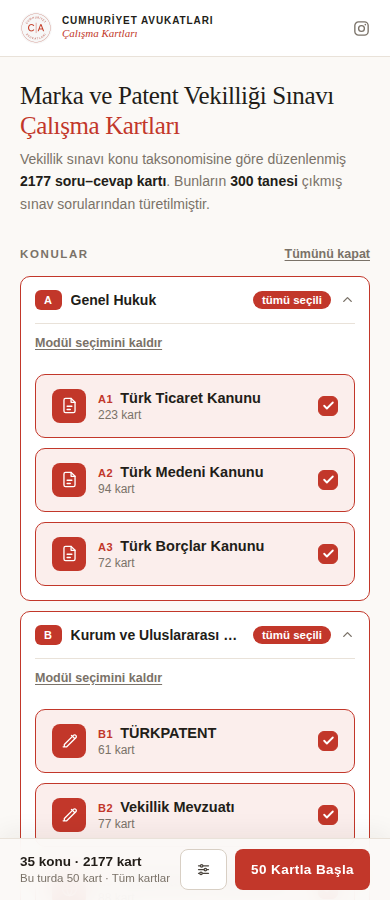
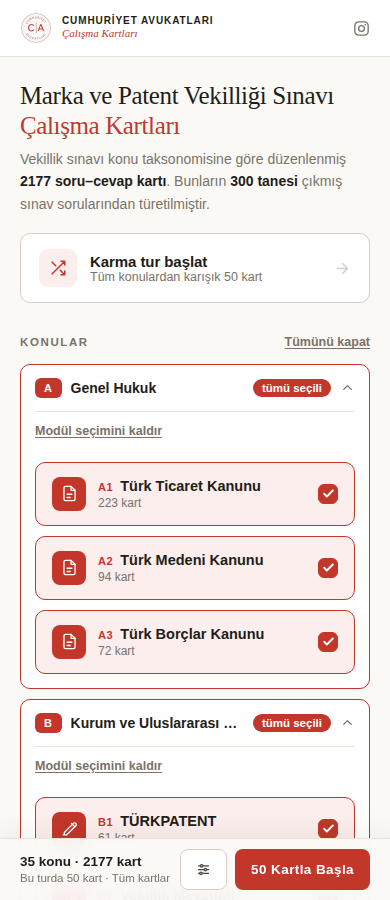
Sayfa başına tek düğmeli "Karma tur başlat" eklendi
Kaldırılan üç düğmeli hızlı başlangıç şeridinin yerine, başlığın hemen
altında tek bir düğme: kapsamı "tüm kartlar", sırayı "karışık" yapıp
bütün konuları seçer ve turu doğrudan başlatır.

Düğmenin alt satırı turda kaç kart çalışılacağını gösteriyor ve tur boyu
ayarı değiştikçe güncelleniyor (50 / 100 / sınırsız → 2177). Kart yoksa
düğme devre dışı kalıyor.

Claude-Session: https://claude.ai/code/session_01RoJgY4kRz6ELFpPqZvmk31

diff --git a/assets/js/kartlar.js b/assets/js/kartlar.js
@@ -94,6 +94,7 @@
       kap.innerHTML = '';
       $('#bos-uyari').classList.remove('hidden');
       $('#alt-bar').classList.add('hidden');
+      karmaGuncelle();
       return;
     }
 
@@ -239,6 +240,31 @@
     return desteler.filter(function (d) { return (d.kartlar || []).length > 0; });
   }
 
+  /* karma tur: kapsamı "tüm kartlar", sırayı "karışık" yapar,
+     bütün konuları seçip turu doğrudan başlatır */
+  function karmaBasla() {
+    kapsam = 'tumu';
+    sira = 'karisik';
+    Array.prototype.forEach.call(document.querySelectorAll('.opt-choice'), function (el) {
+      if (el.dataset.grup === 'kapsam') el.classList.toggle('active', el.dataset.kapsam === 'tumu');
+      if (el.dataset.grup === 'sira') el.classList.toggle('active', el.dataset.sira === 'karisik');
+    });
+    secili = kullanilabilirDesteler().map(function (d) { return d.id; });
+    kartlariSenkronla();
+    secimGuncelle();
+    if (!$('#basla').disabled) basla();
+  }
+
+  function karmaGuncelle() {
+    var btn = $('#karma');
+    if (!btn) return;
+    var toplam = desteler.reduce(function (n, d) { return n + d.kartlar.length; }, 0);
+    btn.disabled = toplam === 0;
+    $('#karma-alt').textContent = toplam
+      ? 'Tüm konulardan karışık ' + (turBoyu ? Math.min(turBoyu, toplam) : toplam) + ' kart'
+      : 'Kart bulunamadı';
+  }
+
   function seciliKartlar() {
     var out = [];
     desteler.forEach(function (d) {
@@ -306,6 +332,7 @@
       hepsiBtn.textContent = (secili.length && secili.length === kullanilabilirDesteler().length)
         ? 'Seçimi temizle' : 'Tüm konuları seç';
     }
+    karmaGuncelle();
     tumunuAcGuncelle();
   }
 
@@ -503,6 +530,7 @@
     $('#tumunu-sec').addEventListener('click', tumunuSec);
     $('#tumunu-ac').addEventListener('click', tumunuAc);
     $('#ayar-ac').addEventListener('click', ayarAcKapa);
+    $('#karma').addEventListener('click', karmaBasla);
     $('#basla').addEventListener('click', basla);
     $('#kart').addEventListener('click', cevir);
     $('#onceki').addEventListener('click', onceki);

diff --git a/assets/css/kartlar.css b/assets/css/kartlar.css
@@ -6,7 +6,7 @@ main.container { padding-top: 34px; padding-bottom: 150px; }
 
 /* ---------- Sayfa başlığı ---------- */
 
-.sayfa-bas { margin-bottom: 30px; }
+.sayfa-bas { margin-bottom: 18px; }
 .sayfa-bas h1 {
   font-family: var(--serif);
   font-weight: 400;
@@ -18,6 +18,57 @@ main.container { padding-top: 34px; padding-bottom: 150px; }
 .sayfa-bas h1 span { color: var(--red); }
 .sayfa-alt { color: var(--muted); font-size: 14px; }
 .sayfa-alt b { color: var(--ink); font-weight: 700; }
+
+/* ---------- Karma tur ---------- */
+
+.karma {
+  display: flex;
+  align-items: center;
+  gap: 13px;
+  width: 100%;
+  margin-bottom: 30px;
+  padding: 15px 18px;
+  text-align: left;
+  background: var(--white);
+  border: 1px solid var(--line-strong);
+  border-radius: var(--radius);
+  cursor: pointer;
+  font-family: var(--sans);
+  color: var(--ink);
+  transition: border-color .13s ease, background .13s ease, box-shadow .13s ease;
+}
+.karma-ikon {
+  display: inline-flex;
+  align-items: center;
+  justify-content: center;
+  width: 38px;
+  height: 38px;
+  flex-shrink: 0;
+  border-radius: 9px;
+  background: var(--red-soft);
+  color: var(--red);
+}
+.karma-metin { display: flex; flex-direction: column; min-width: 0; }
+.karma-metin strong { font-size: 15px; font-weight: 700; letter-spacing: -.005em; }
+.karma-metin small {
+  font-size: 12.5px;
+  color: var(--muted);
+  overflow: hidden;
+  text-overflow: ellipsis;
+  white-space: nowrap;
+}
+.karma-ok { margin-left: auto; flex-shrink: 0; color: var(--line-strong); transition: color .13s ease, transform .13s ease; }
+.karma:disabled { opacity: .5; cursor: not-allowed; }
+
+@media (hover: hover) {
+  .karma:hover:not(:disabled) {
+    border-color: var(--red);
+    background: var(--red-soft);
+    box-shadow: var(--shadow);
+  }
+  .karma:hover:not(:disabled) .karma-ikon { background: var(--red); color: var(--white); }
+  .karma:hover:not(:disabled) .karma-ok { color: var(--red); transform: translateX(2px); }
+}
 
 /* ---------- Konu başlığı ---------- */
 

diff --git a/index.html b/index.html
@@ -36,6 +36,17 @@
       <p class="sayfa-alt" id="sayfa-alt"></p>
     </div>
 
+    <button type="button" class="karma" id="karma">
+      <span class="karma-ikon">
+        <svg width="18" height="18" viewBox="0 0 24 24" fill="none" stroke="currentColor" stroke-width="2" stroke-linecap="round" stroke-linejoin="round"><path d="M16 3h5v5M4 20L21 3M21 16v5h-5M15 15l6 6M4 4l5 5"/></svg>
+      </span>
+      <span class="karma-metin">
+        <strong>Karma tur başlat</strong>
+        <small id="karma-alt">Tüm konulardan karışık</small>
+      </span>
+      <svg class="karma-ok" width="17" height="17" viewBox="0 0 24 24" fill="none" stroke="currentColor" stroke-width="2.2" stroke-linecap="round" stroke-linejoin="round"><path d="M5 12h13M12 5l7 7-7 7"/></svg>
+    </button>
+
     <div class="bos-uyari hidden" id="bos-uyari">
       <strong>Henüz kart yüklenmedi.</strong>
       Kart içeriği <code>data/desteler.js</code> dosyasından okunur; biçim için

diff --git a/README.md b/README.md
@@ -30,6 +30,7 @@ ve aynı ilkeyi paylaşır: **her şey kullanıcının tarayıcısında çalış
 
 | Özellik | Açıklama |
 |---|---|
+| Karma tur | Sayfanın başındaki tek düğme: tüm konulardan karışık bir tur başlatır |
 | Modül akordeonu | Beş modül katlanır listede; açılınca konular, modülün tümünü seçme kısayoluyla |
 | Yapışkan seçim çubuğu | Seçim özeti ve başlat düğmesi ekranın altında sabit; ayarlar aynı çubuktan açılır |
 | Çoklu konu seçimi | Birden çok konuyu tek turda birleştirerek çalışma |
